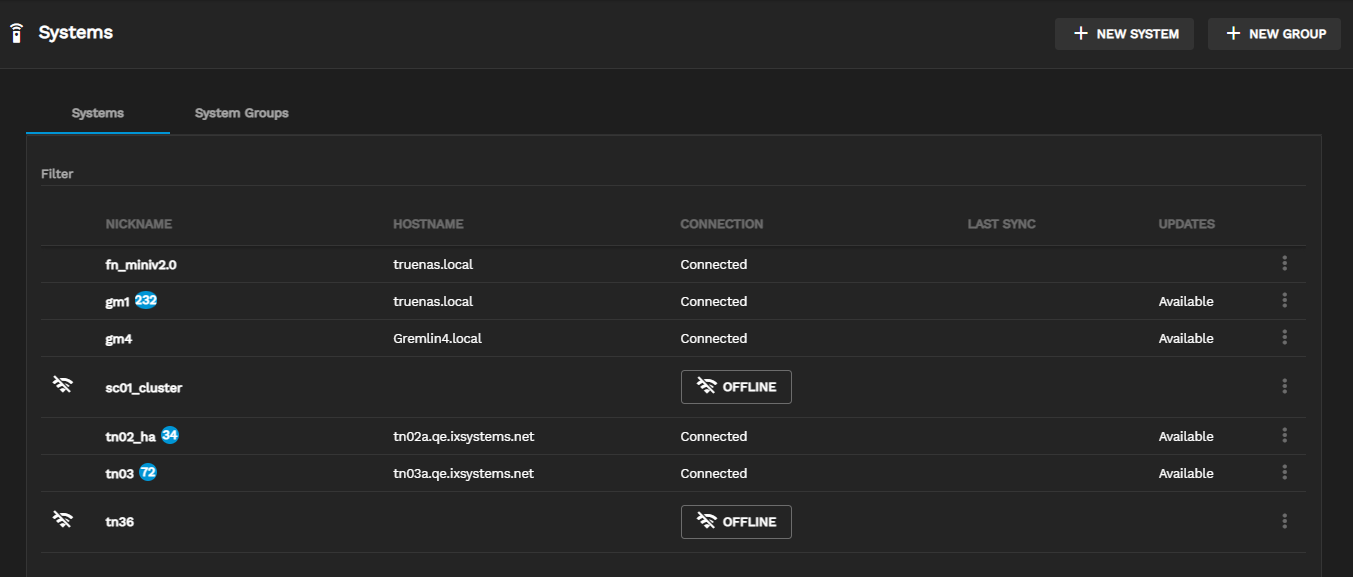
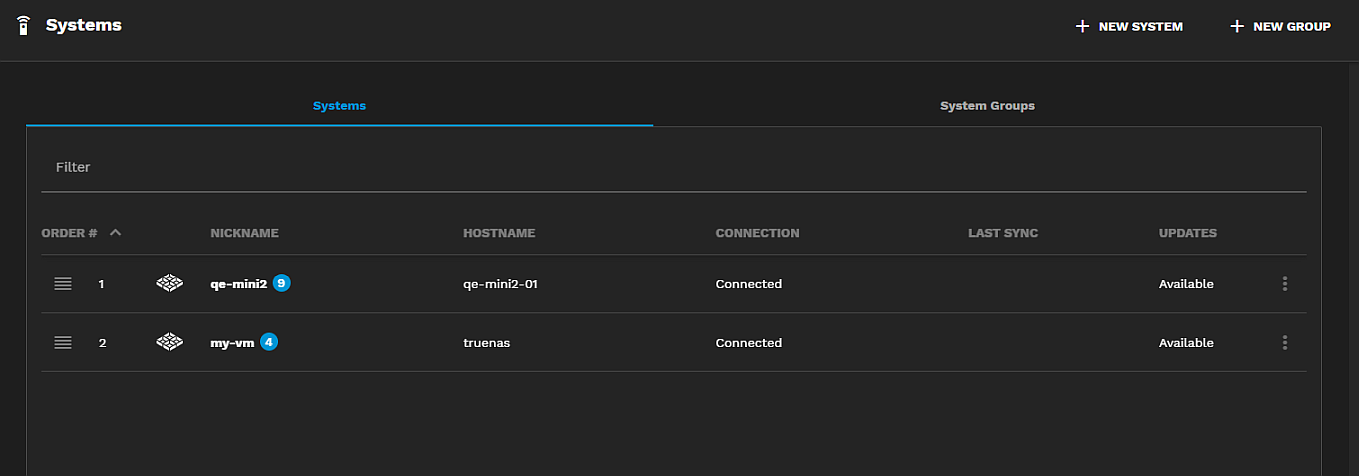
PD-843 Update Dashboard and SingleSystem Index
This commit updates the Dashboard.md article with the Explore button information, and the UserGuide/SingleSystem/_index.md file content to link to the new  main Dashboard.md content, adds information and screenshots for the Systems screen, and references to the FleetDashboard.md article content.

diff --git a/content/TrueCommand/UserGuide/SystemManagement/SingleSystem/_index.md b/content/TrueCommand/UserGuide/SystemManagement/SingleSystem/_index.md
@@ -4,29 +4,47 @@ description: "How to use TrueCommand to manage a single connected TrueNAS system
 weight: 20
 geekdocCollapseSection: true
 aliases:
-tags:
 related: false
 ---
 
-TrueCommand allows users to manage all of their systems on a single dashboard that also lets users view single systems at a time.
+TrueCommand allows users to manage all the TrueNAS systems through several screens: main **Dashboard**, **Fleet Dashboard** and **Systems** screens.
+Only administrator accounts have access to the **Systems** screen. 
+Non-Administrator users can view and edit system information for the systems they are given access two, but cannot add new systems. 
+The [**System Inventory**]({{< relref "SystemInventory.md" >}}) screen provides access to system, storage, and network information.
 
-To manage a single system, either click on the name on a System card or click on the **All** dropdown <span class="material-icons">arrow_drop_down</span> on the left side of the system header at the top of main dashboard. Select or hover over **Ungrouped** to see the list of systems.  
-Select the system you want to manage.
+You can access individual system information through the system widgets (information cards) on the **Dashboard** or use the sort options on the screen top banner to filter the system widgets to show all or only a select system. 
+Click on the name of main **Dashboard** system widget to open a screen with a detailed view of the system. 
 
-![MainDashboardSelectUngroupedSystem](/images/TrueCommand/Systems/MainDashboardSelectUngroupedSystem.png "Selecting a System")
+![TrueCommandDashboard](/images/TrueCommand/Dashboard/TCDashBoard.png "TrueCommand Dashboard")
 
-Single system cards display various statistics like CPU, memory, disk, network, and storage usage, as well as existing datasets and [alerts]({{< relref "AlertManage.md" >}}).
+The [**Fleet Dashboard Systems**]({{< relref "FleetDashboard.md" >}}) widget lists all TrueNAS systems managed by TrueCommand but clicking on a system does not open a detailed individual system screen.
 
-Users can create and manage storage, replication, snapshots, and shares using the **Explore** button.
+The **Systems** screen lists all systems managed by TrueCommand.
 
-Users can view expanded TrueNAS information details by clicking on the double arrows <span class="material-icons">keyboard_double_arrow_down</span> at the lower right corner of the system card.
-Information includes the system manufacturer, serial numbers, support tier, support expiration date, host name, CPU, CPU cores, physical memory, OS, and uptime.
+![SystemsPage](/images/TrueCommand/Systems/SystemsPage.png "Systems Screen Systems List")
 
-![SystemInformationCardDetails](/images/TrueCommand/Systems/SystemInformationCardDetails.png "Single System Hardware Details")
+The [individual system widgets]({{< relref "TrueCommand/UserGuide/Dashboard.md" >}} on the main **Dashboard**, systems listed in the **Systems** widget on the **Fleet Dashboard**, and systems listed on the **Systems** screen include the **New System** button and provide access to the [systems option menu]({{< relref "TrueCommand/UserGuide/Dashboard.md#system-options-menu" >}}). 
+Click the triple-dot icon <span class="material-icons">more_vert</span> to open the system options menu, then click **Edit** to open the [**Edit *system***]() screen.
 
-Users with adequate permissions can update the system, [configure backups]({{< relref "TrueNASConfigManage.md" >}}), and generate system audits and [reports]({{< relref "/TrueCommand/UserGuide/Reports/Creation.md" >}}). If a system update is available, the **Update** label and icon turn green. You can also see which systems have updates pending on the **Systems** screen.
+## Individual System Detail Screens
+Access individual system detail screens from the main **Dashboard** system widgets.
+
+The individual system detail screen includes options to update the TrueNAS release, configure backups, view a system audit, and report screens.
+
+![SingleSystemDetailScreen](/images/TrueCommand/Systems/SingleSystemDetailScreen.png "Individual System Detail Screen")
+
+The main **Dashboard** single system widgets and the detail screens display various performance graphs and usage for CPU, memory, disk, network, and storage, and list pools and datasets, and discovered system [alerts]({{< relref "AlertManage.md" >}}).
+
+Users with adequate permissions can update the system, [configure backups]({{< relref "TrueNASConfigManage.md" >}}), and generate system audits and [reports]({{< relref "/TrueCommand/UserGuide/Reports/Creation.md" >}}). 
+If a system update is available, the **Update** label and icon turn green. You can also see which systems have updates pending on the **Systems** screen.
 
 ![SystemUpdateAvailable](/images/TrueCommand/Dashboard/SystemUpdateAvailable.png "Single System Dashboard")
+
+## System Inventory Screens
+The [**System Inventory**]({{< relref "SystemInventory.md" >}}) screen lists all systems TrueCommand manages. 
+Click on a system to see three tabs, **System**, **Network**, and **Storage**.
+
+Administrators have access to all systems. Non-administrators only see systems they have permissions to access.
 
 ## Contents
 

diff --git a/content/TrueCommand/UserGuide/Dashboard.md b/content/TrueCommand/UserGuide/Dashboard.md
@@ -9,6 +9,8 @@ tags:
 - tcupdate
 ---
 
+{{< toc >}}
+
 The TrueCommand **Dashboard** provides an overview of each connected TrueNAS system in system widgets (information cards).
 
 ![TrueCommandDashboard](/images/TrueCommand/Dashboard/TCDashBoard.png "TrueCommand Dashboard")
@@ -20,9 +22,9 @@ To add a new system, click **New System**.
 
 For more information on the top toolbar icons, refer to the [Interface Overview]({{< relref "InterfaceOverview.md" >}}) article in the Getting Started Guide.
 
-## Dashboard System Cards
+## Dashboard System Widgets
 
-Each system has a unique widget (card) that displays usage metrics including **CPU**, **Temp** and **Storage**, the number of pools and drives in the system, network, I/O read/writes and the disk verses cache usage.
+Each system has a unique widget (information card) that displays usage metrics including **CPU**, **Temp** and **Storage**, the number of pools and drives in the system, network, I/O read/writes and the disk verses cache usage.
 
 ![DashboardSingleSystemView](/images/TrueCommand/Dashboard/DashboardSingleSystemView.png "Dashboard Single System View")
 
@@ -57,6 +59,9 @@ Click on **TEMP** to open the CPU temperature percentages graph.
 ### System Options Menu
 
 {{< include file="/_includes/TCSystemOptionsMenu.md" >}}
+
+### Explore Options
+The **Expore** button on individual system widgets opens the [**File Explorer**]({{< relref "TrueCommandStorageManagement.md" >}}) that provides access to dataset, zvol, share, snapshot, and replication information for that TrueNAS system.
 
 ### Update NAS System
 If an update is available, the **Systems** widget on the **Fleet Dashboard** and system card on the main **Dashboard** screens show a green **Update** icon. Click to open the **Update NAS** window.
